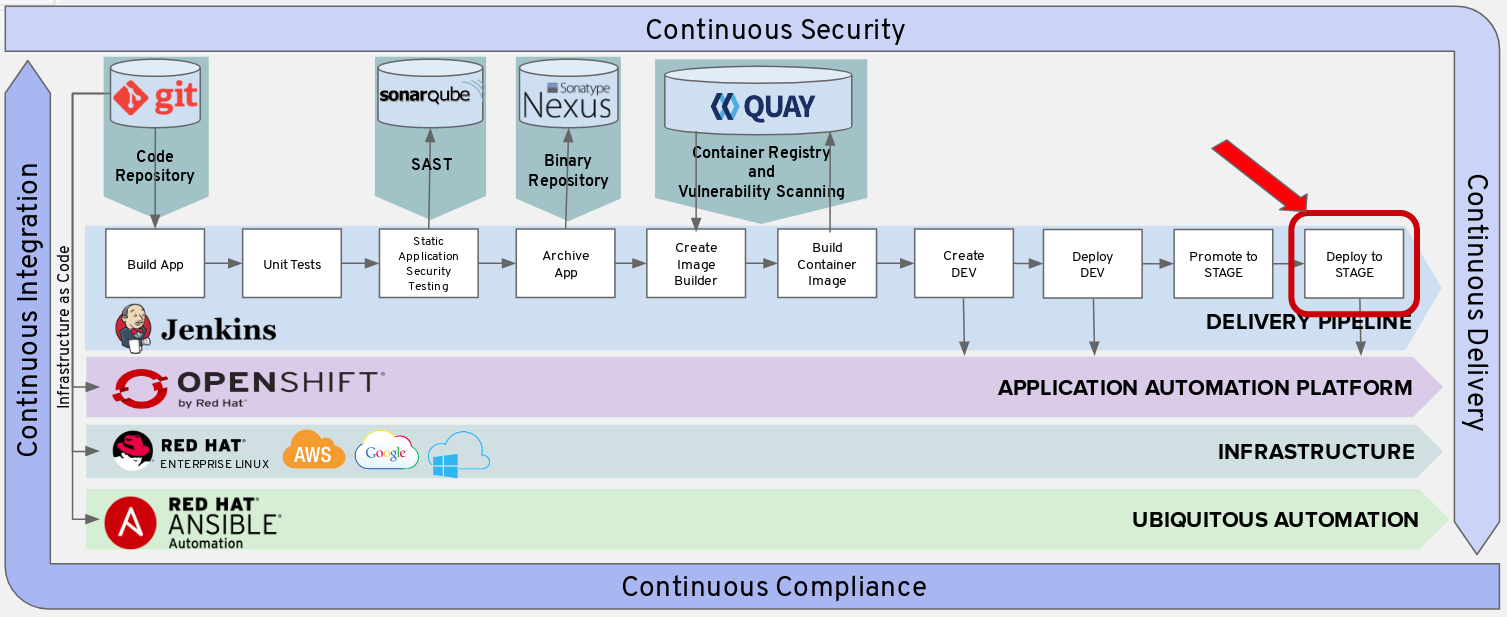
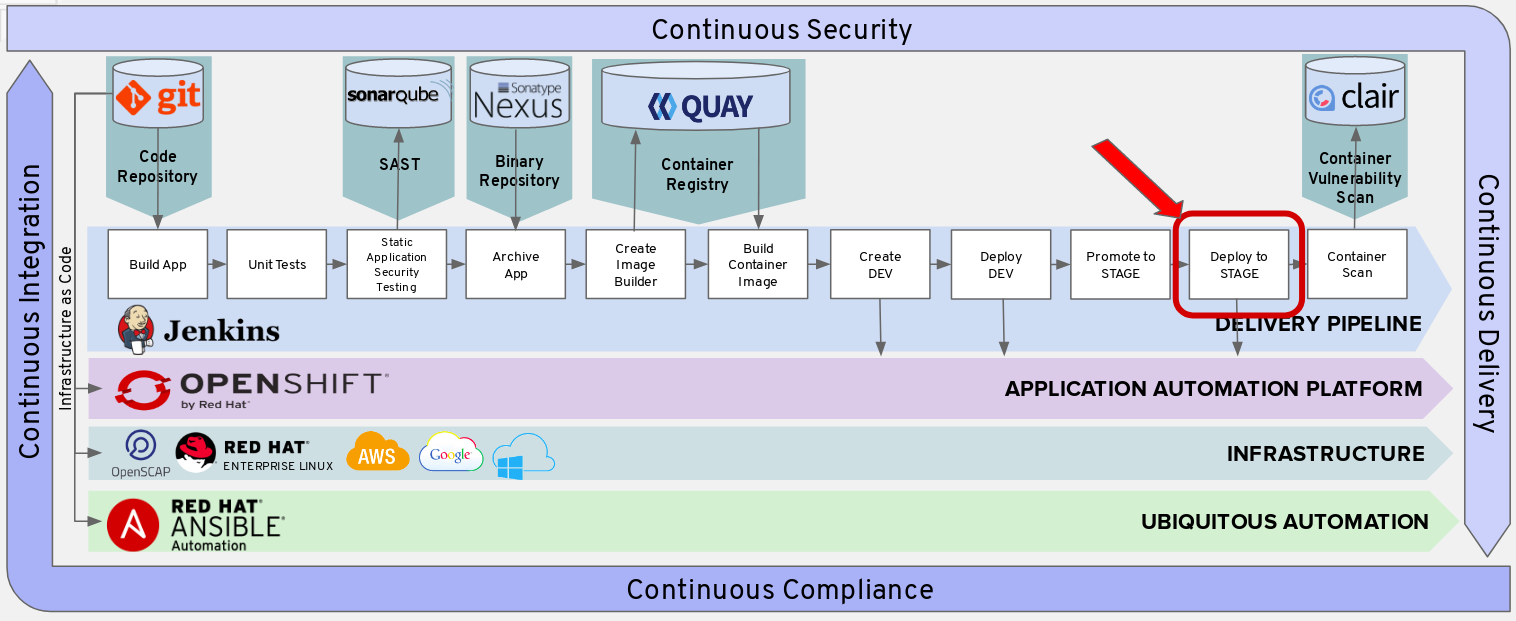
Added Quay and Clair to Secure Software Factory Workshop

diff --git a/content/workshops/secure_software_factory/lab20.md b/content/workshops/secure_software_factory/lab20.md
@@ -1,0 +1,82 @@
+---
+title: Lab 20 - Add Clair Container Scan
+workshops: secure_software_factory
+workshop_weight: 30
+layout: lab
+---
+# Add Clair Container Scan
+
+Add the configuration for the Container Scan below to your pipeline text file.
+
+<img src="../images/pipeline_container_scan.png" width="900"><br/>
+
+<br>
+
+# Append to Jenkins Pipeline Configuration
+
+In Builds > Pipelines > tasks-pipeline > Actions > Edit
+
+<img src="../images/pipeline_actions_edit.png" width="900" />
+
+In your pipeline, replace the Jenkins agent 'maven' with 'jenkins-slave-image-mgmt'.
+
+```
+pipeline {
+  agent {
+    label 'jenkins-slave-image-mgmt'
+  }
+```
+
+In your pipeline, add the Container Scan Stage at the end of your Pipeline but before the 2 Ending Brackets that you've added previously.
+
+Please replace the following values:
+
+- \<oc user\> : this was given to you by the instructor
+- \<oc password\> : this was given to you by the instructor
+- \<oc environment\> : this was given to you by the instructor
+- \<quay user\> : created from a previous lab
+- \<quay password\> : created from a previous lab
+- \<docker repository\> : In another tab with the OpenShift Console, go to Builds > Images.  Find the Docker Repo link for "jboss-eap70-openshift". It should be value similar to "172.30.186.87:5000/cicd-user1/jboss-eap70-openshift"
+- \<quay\> : this was given to you by the instructor
+- \<quay user again\> : same user as \<quay user\>
+- \<quay repository\>  : created from the previous lab, i.e. jboss-eap70-openshift
+
+```
+    stage('Clair Container Scan') {
+      steps {
+            sh "oc login -u <oc user> -p '<oc password>'  --insecure-skip-tls-verify <oc environment> 2>&1"
+            sh 'echo "$(oc whoami):$(oc whoami -t)" > /tmp/srccreds'
+            sh 'skopeo --debug copy --src-creds="$(cat /tmp/srccreds)" --src-tls-verify=false --dest-tls-verify=false --dest-creds=<quay user>:<quay password> docker://<docker repo>:1.5 docker://<quay>/<quay user again>/<quay repository>:1.5'
+        }
+    }
+```
+
+For an example, see the following:
+
+```
+stage('Clair Container Scan') {
+  steps {
+        sh "oc login -u user1 -p 'redhat!@#' --insecure-skip-tls-verify https://master.ocp-naps.redhatgov.io:8443 2>&1"
+        sh 'echo "$(oc whoami):$(oc whoami -t)" > /tmp/srccreds'
+        sh 'skopeo --debug copy --src-creds="$(cat /tmp/srccreds)" --src-tls-verify=false --dest-tls-verify=false --dest-creds=user3:redhat123 docker://docker-registry.default.svc:5000/cicd-user1/jboss-eap70-openshift:1.5 docker://quay-enterprise-quay-enterprise.apps.ocp-naps.redhatgov.io/user1/jboss-eap70-openshift:1.5'
+    }
+}
+```
+
+Save your Jenkins file
+
+# Run Pipeline
+
+Go to Builds > Pipeline
+
+Click Start Pipeline for the pipeline you just created called tasks-pipeline.
+
+Your pipeline should now execute through all the stages you created.  
+
+Go ahead and click View Log.  This will take you to the Jenkins logs and you can follow the various stages in your pipeline.
+
+When it asks to promote to stage, go ahead and promote it.
+
+<img src="../images/pipeline_execution.png" width="900"><br/>
+
+<br>

diff --git a/content/workshops/secure_software_factory/README.md b/content/workshops/secure_software_factory/README.md
@@ -1,0 +1,36 @@
+# Must have existing OpenShift Environment
+You can use either of the OpenShift provsioners from RedHatGov
+ - https://github.com/RedHatGov/redhatgov.workshops/tree/master/openshift-aws-setup
+ - https://github.com/RedHatGov/redhatgov.workshops/tree/master/openshift_terraform
+ - https://github.com/gnunn1/openshift-aws-setup
+ - https://github.com/jaredhocutt/openshift-provision
+ - https://github.com/bit4man/ansible_agnostic_deployer
+
+# Environment Setup
+If you'd like to setup an individual environment, use the commands below to set it up or delete the single environment.
+
+## Help
+
+$ scripts/provision.sh --help
+
+### Individual Environment
+
+$ scripts/provision.sh deploy --deploy-che --ephemeral
+
+### Individual Delete
+
+$ scripts/provision.sh delete
+
+# Batch Setup
+If you'd like to setup the workshop for numerous users, go into the provision-batch-setup.sh script and update for loop with the amount of users .  This will create an isolated environment per user.
+
+To run the script
+
+$ ./provision-batch-setup.sh
+
+# Batch Delete
+If you'd like to delete, run the script for the users you'd like to delete by updating the for loop
+
+To run the script
+
+$ ./provision-batch-delete.sh

diff --git a/content/workshops/secure_software_factory/lab18.md b/content/workshops/secure_software_factory/lab18.md
@@ -1,0 +1,28 @@
+---
+title: Lab 18 - Create Quay Account
+workshops: secure_software_factory
+workshop_weight: 28
+layout: lab
+---
+# Create Quay Account
+
+Please go to the Quay Login with the link given to you by your instructor
+
+Click Create Account at the bottom of the page.
+
+<br>
+
+<img src="../images/quay_login.png" width="300"><br/>
+
+Fill in the account information for Quay.
+
+- Username: your assigned username i.e user1
+- E-mail address: your email address
+- Password: redhat123
+- Confirm Password: redhat123
+
+Click Create Account
+
+<br>
+
+<img src="../images/quay_create_account.png" width="400"><br/>

diff --git a/content/workshops/secure_software_factory/lab21.md b/content/workshops/secure_software_factory/lab21.md
@@ -1,0 +1,25 @@
+---
+title: Lab 21 - View Container Scan Report
+workshops: secure_software_factory
+workshop_weight: 31
+layout: lab
+---
+# View Clair Container Scan Report in Quay
+
+Select your Repository from the previous lab
+
+<img src="../images/quay_repo.png" width="900"><br/>
+
+<br>
+
+Select Repository Tags on the left hand menu
+
+Select the Security Scan for your Image
+
+<img src="../images/quay_repo_tags.png" width="900"><br/>
+
+<br>
+
+View the Security Scan Report
+
+<img src="../images/quay_scan.png" width="900"><br/>

diff --git a/content/workshops/secure_software_factory/lab19.md b/content/workshops/secure_software_factory/lab19.md
@@ -1,0 +1,23 @@
+---
+title: Lab 19 - Create Quay Repository
+workshops: secure_software_factory
+workshop_weight: 29
+layout: lab
+---
+# Create Container Repository in Quay
+
+Click Create New Repository
+
+<img src="../images/quay_create_repo.png" width="200"><br/>
+
+<br>
+
+Enter Name of Repository, i.e. jboss-eap70-openshift
+
+Select Public to make this a Public Repository
+
+Click Create Public Repository
+
+<img src="../images/quay_repo_config.png" width="500"><br/>
+
+<br>

diff --git a/content/workshops/secure_software_factory/Fin.md b/content/workshops/secure_software_factory/Fin.md
@@ -1,7 +1,7 @@
 ---
 title: Fin
 workshops: secure_software_factory
-workshop_weight: 30
+workshop_weight: 99
 layout: lab
 ---
 
